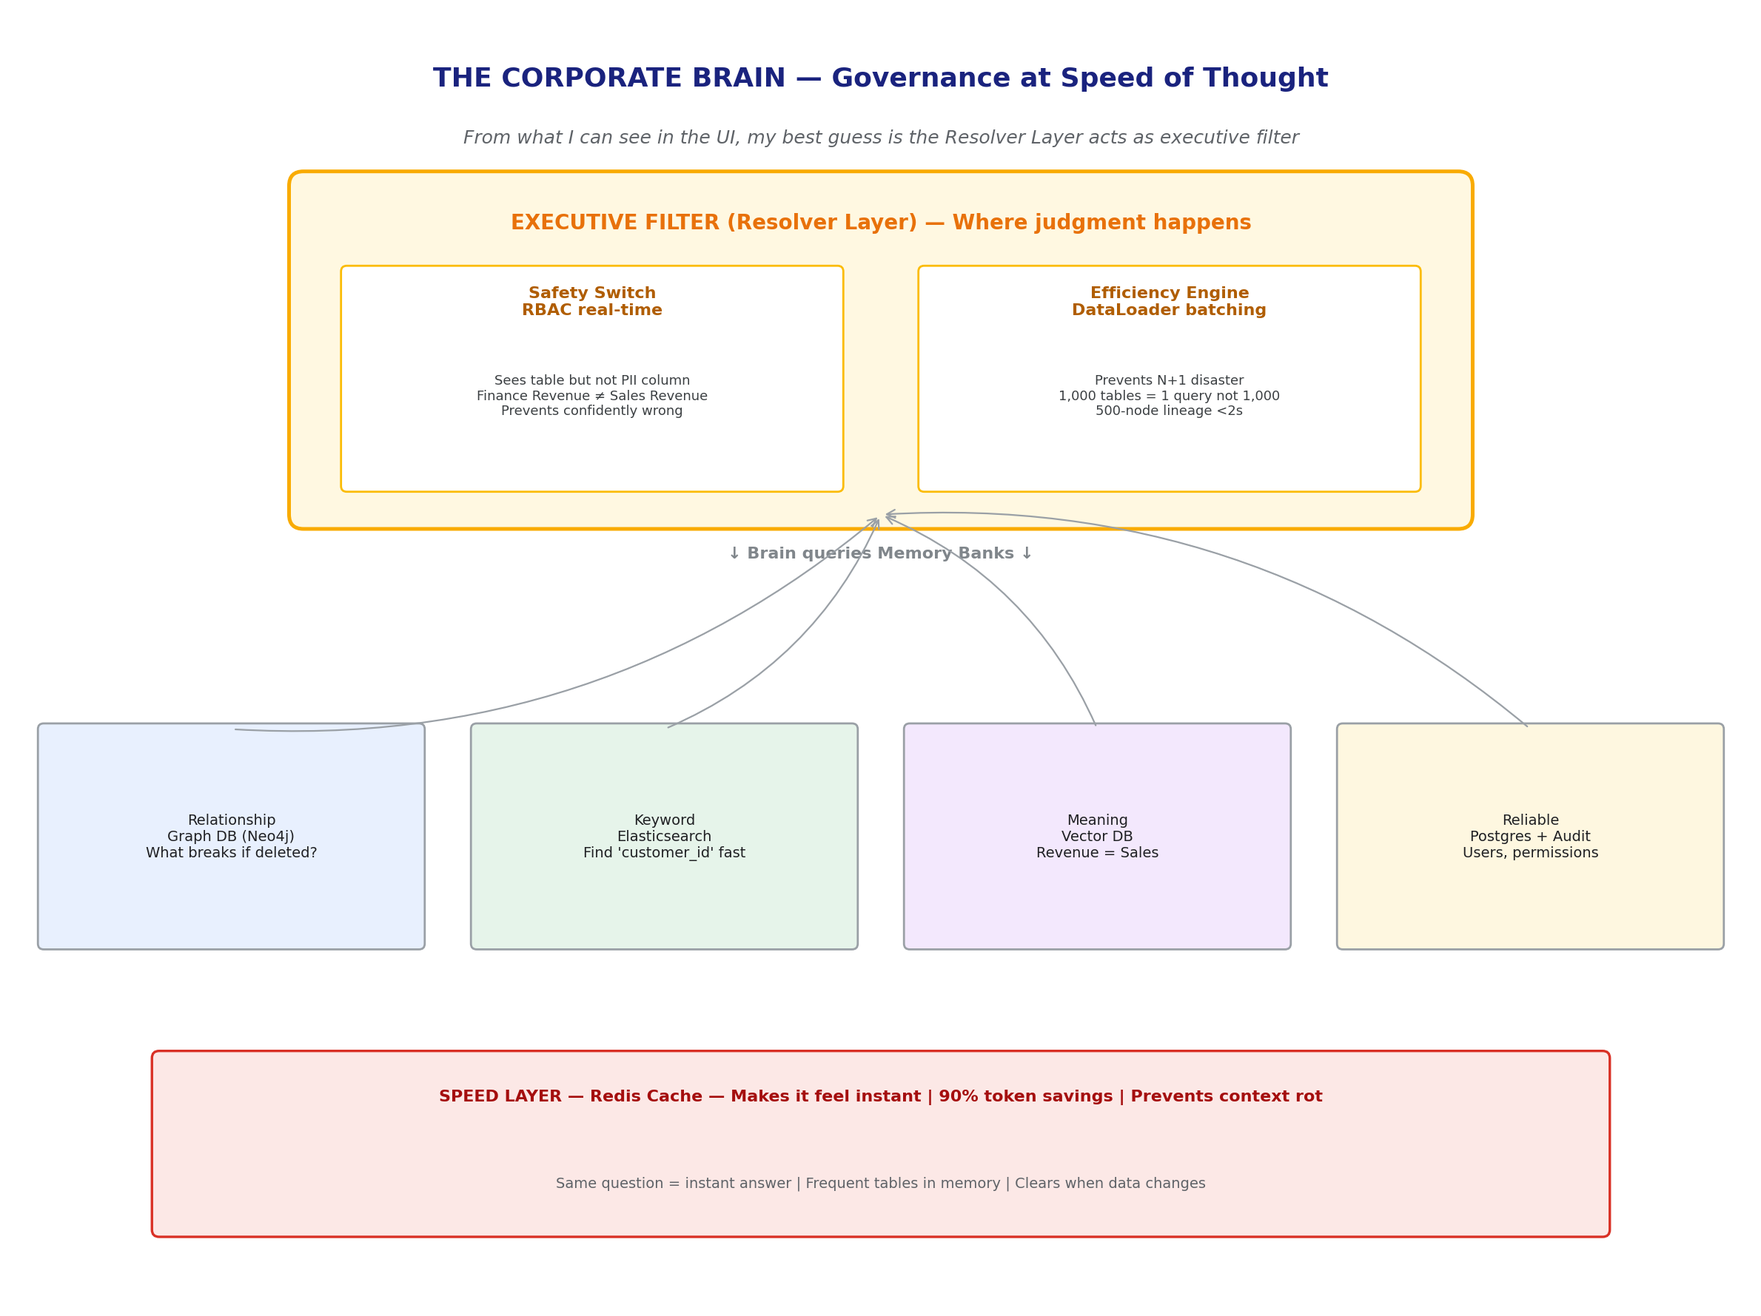
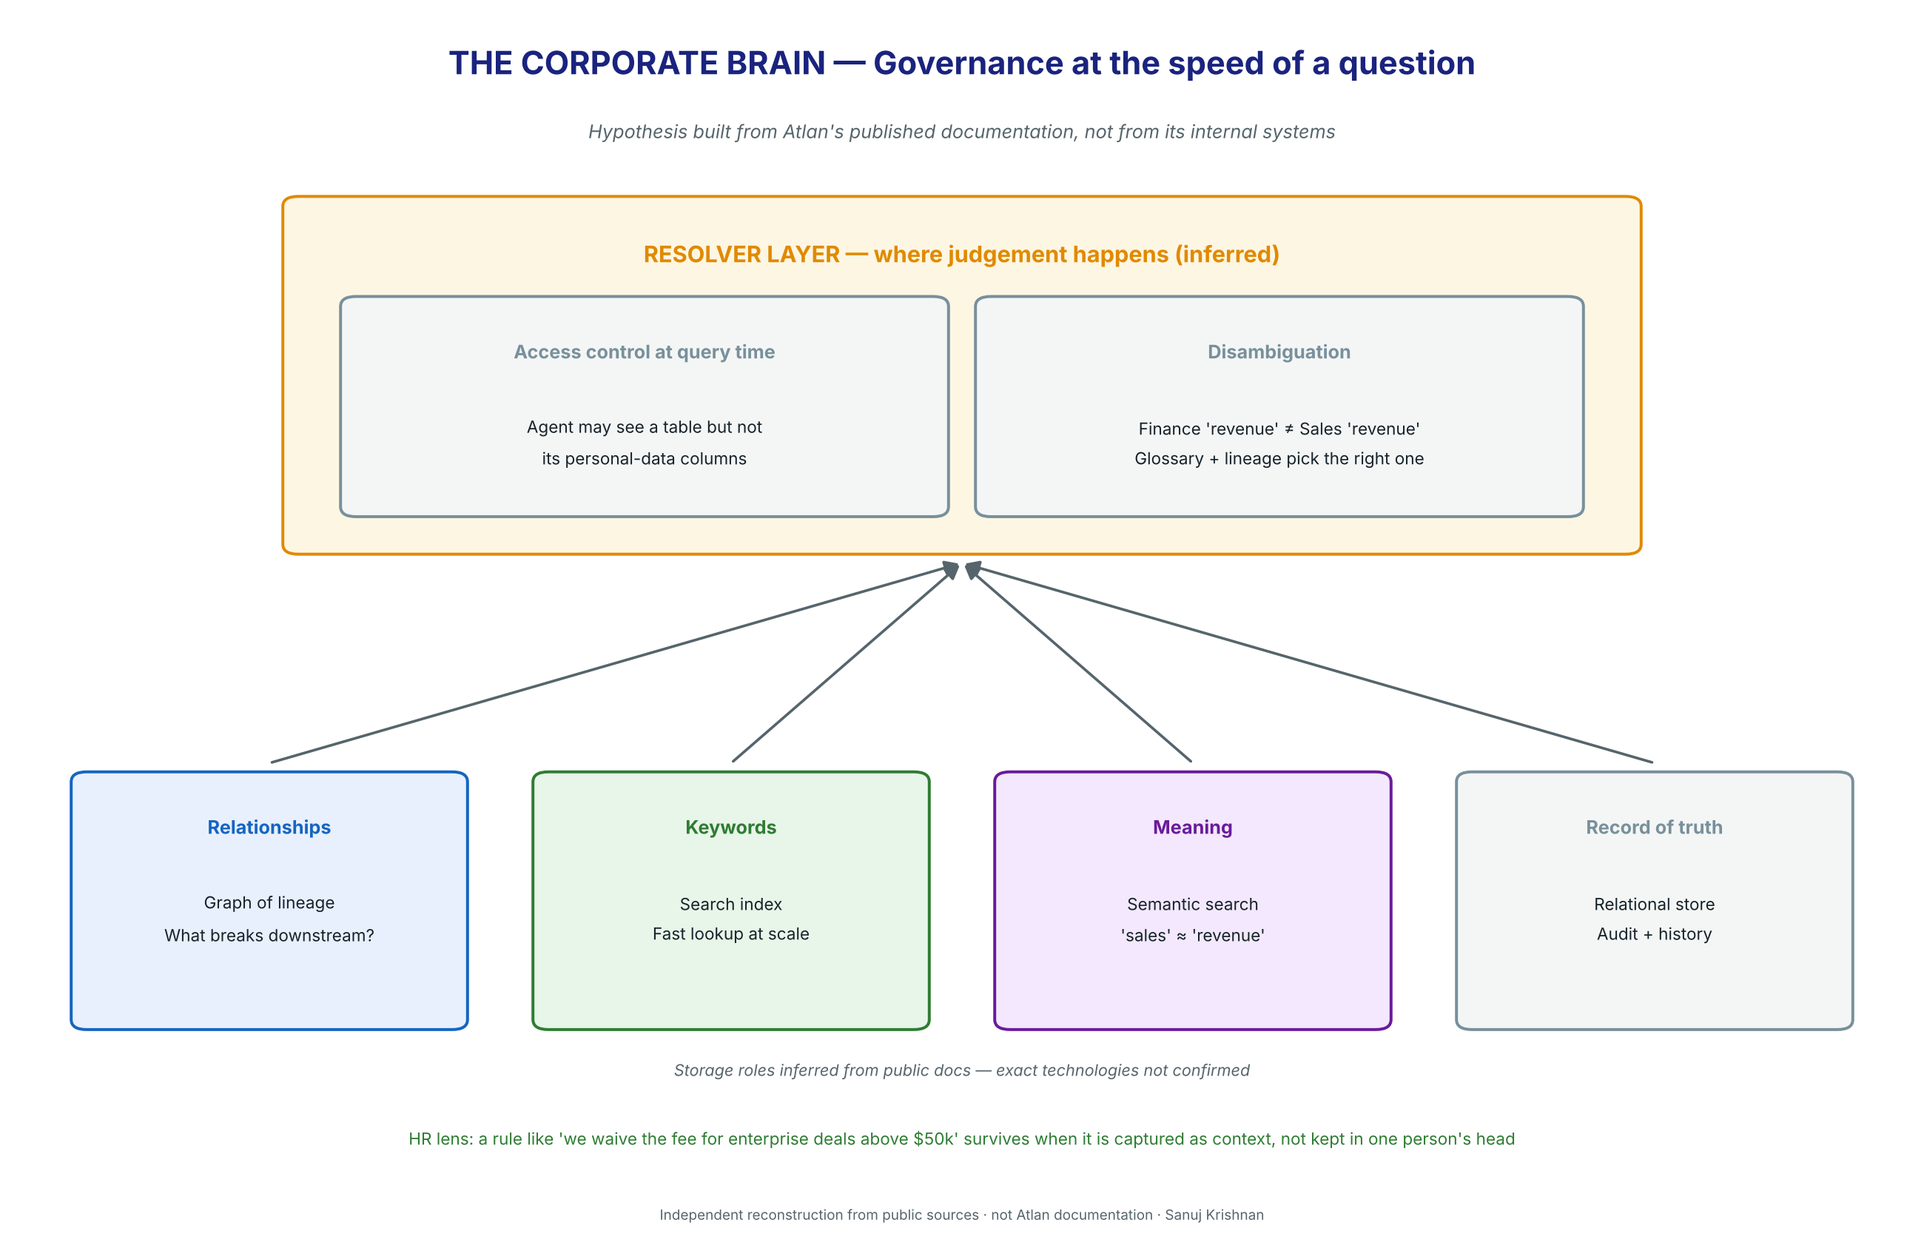
Rewrite for accuracy: drop unverifiable first-person claims, source figures, replace Ontora-style org ontology, regenerate diagrams
Claude-Session: https://claude.ai/code/session_01LmpHobkfRdwQtK572teASj

diff --git a/README.md b/README.md
@@ -1,131 +1,113 @@
 # Atlan: The Architecture of Contextual Intelligence
-### Bridging the Context Gap — A Technical Study
+### Why enterprise AI needs a context layer — a public-signal study
 
-> **Series:** This is part of an architecture-studies series with Ontora. Companion: [Ontora Architecture Study](https://github.com/sanoojcools/-ontora-architecture-study) — the repo name has a leading hyphen: `-ontora-architecture-study`.
+> **Series:** Architecture studies of AI-native companies, written from an org-design lens.
+> Part 1: [Ontora](https://github.com/sanoojcools/ontora-architecture-study) · Part 2: Atlan (this study)
 
-> I first saw Atlan's demo while researching metadata tools. The lineage graph looked like every other catalog. Then I noticed the Slack thread embedded in a column description. I spent a week researching public signals — UI screenshots, API docs, GitHub, Gartner MQ Nov 2025 (G00808349), and Prukalpa's "Becoming a Frontier Company" essay.
-
-> **This is not a teardown. It is a technical study of an ambitious architecture built under extreme constraints. Every builder will recognize the tradeoffs. And I may be wrong about any of it — corrections welcome.**
+> **What this is:** an independent reconstruction built only from public material — Atlan's website, product documentation, published case studies, its open-source repositories, Prukalpa Sankar's essay *"Becoming a Frontier Company,"* and Gartner's November 2025 Magic Quadrant for Metadata Management (G00808349). It is not Atlan documentation, not an affiliation, and not a claim that any inferred layer works exactly as described. Where I am guessing, I say so. Corrections are welcome.
 
 ---
 
-### The Setup: Why This Matters
+### The question that started this
 
-Most data catalog demos are feature checklists. Lineage graph, glossary search, Slack integration, founder says "active metadata" like that's a strategy.
+A data catalog used to be a library index: what tables exist, who owns them, where they came from. Useful, rarely exciting.
 
-Then I watched Atlan's product evolution. Not the sales pitch. The actual technical signals. And I saw something different: what appears to be a six-layer architecture built around a single thesis — **P = f(I, C)**, where Performance equals Intelligence times Context.
+What caught my attention in Atlan's material was something else. Their product and messaging have moved from *"find your data"* to *"give AI the context it needs to act correctly."* That is a different job. A catalog serves a curious analyst. A context layer serves an AI agent that will confidently answer a CFO's question whether or not it understands what "revenue" means in that company.
 
-From what I can see in the UI, my best guess is that Atlan is not a data catalog. They are building a Contextual Intelligence Engine.
+Atlan frames this as **P = f(I, C)**: an AI system's performance is a function of its intelligence *and* the context it is given. Models are getting smarter every quarter. Context is the part each company has to build for itself.
 
-I assumed it was just another graph database with a nice frontend. Here is where my original hypothesis died: I opened the network tab and saw a single GraphQL call fetching nested lineage, permissions, and quality signals in one roundtrip. That's not a catalog. That's an institutional brain.
+As someone who has spent 16 years in HR and organisation design, that framing landed. It is the same problem I have watched in every reorganisation: capable people make bad decisions when the unwritten rules live in someone else's head.
 
-### The Big Picture
+### The big picture
 
 ![Strategy Map](./assets/01-strategy-map.png)
 
-This map is my reconstruction: Technical foundation → Hard problems solved → Remaining challenges → Strategic outcomes → Category position. The 100+ connectors don't matter until they map to outcomes like High Trust AI and 38% Text-to-SQL lift.
+My reconstruction runs from technical foundation → hard problems → remaining challenges → business outcomes. The 100+ connectors matter only when they turn into outcomes such as trustworthy AI answers.
 
-I have no way of knowing how these numbers were calculated — Atlan mentions 38% lift and Workday's 5x improvement in public talks — but my guess is they come from grounding Text-to-SQL with lineage and quality signals. If my guess is right and they are LLM-estimated without system logs, that's fiction with decimal points. If they are system-derived from Snowflake query logs and dbt row counts, that's a real moat.
+Atlan has publicly cited figures like a 38% improvement in text-to-SQL accuracy and a 5x improvement at Workday after adding metadata context. I have not been able to verify how these were measured. If they come from controlled before-and-after tests against real query logs, they describe a genuine moat. If they are estimates, they are directional at best. That distinction is the single most important open question in this category.
 
-### 1. The Corporate Brain — Governance at Speed of Thought
+### 1. The corporate brain — governance at the speed of a question
 
 ![Corporate Brain](./assets/02-corporate-brain.png)
 
-From what I can see in the UI, the Resolver Layer is the executive filter. The raw data lives in memory banks, but judgment happens here.
+Atlan's documentation describes a platform that combines several kinds of storage and search. My reading of how those pieces likely fit together:
 
-**The Safety Switch:** From the permissions UX, my best guess is real-time RBAC checks. It ensures an AI agent can see a table but never a PII column. When Finance says "Revenue" and Sales says "Revenue" and they mean different things, the Brain knows the difference. This prevents the confidently wrong disaster I see in most AI pilots.
+- **Relationships (graph):** *what breaks downstream if I change this table?*
+- **Keywords (search index):** fast lookup across millions of assets
+- **Meaning (vector/semantic search):** knowing that "sales" and "revenue" may refer to the same thing
+- **Record of truth (relational store):** audit trails and change history
 
-**The Efficiency Engine:** I assumed loading 1,000 tables meant 1,000 queries. The network tab shows DataLoader batching — one batched query, not 1,000. That's why 500-node lineage feels <2s instead of 10s.
+On top of storage sits what I call a **resolver layer**: the part that decides what an AI agent is allowed to see and how ambiguous terms are interpreted. Two jobs matter most:
 
-**Memory Banks:**
-- Relationship (Graph DB): What breaks if I delete this?
-- Keyword (Elasticsearch): Fast keyword across millions
-- Meaning (Vector): Revenue = Sales
-- Reliable (Postgres): Audit logs, source of truth
+**Access control at query time.** An agent may be allowed to see a customer table but not the personal-data columns inside it. Atlan's published governance features (policies, personas, column-level controls) suggest this check happens before context reaches the model, not after.
 
-Speed layer (Redis) makes same question instant. From what I can tell, this plus Minimum Viable Context is how they get 90% token savings.
+**Disambiguation.** When Finance's "revenue" and Sales' "revenue" mean different things, the glossary and lineage tell the system which one the question needs. This is how you avoid the most dangerous AI failure: an answer that is fluent, specific, and wrong.
 
-**CHRO lens:** When an expert leaves, their judgment — "except when enterprise >$50k, waive fee" — stays in the graph. Institutional memory preserved.
+**Through an HR lens:** this is a knowledge-retention system. When an expert leaves, a rule like *"we waive the fee for enterprise deals above $50k"* survives if it was captured as context rather than kept in someone's memory.
 
-### 2. The Full Story — Why AI Hallucinates
+### 2. The full story — why AI answers go wrong
 
 ![Full Story](./assets/03-full-story.png)
 
-I have no way of knowing how Atlan validates AI answers, but my guess from the UI is this pipeline:
+Ask an AI "what was enterprise revenue last quarter?" and a correct answer needs far more than the table. It needs the metric's agreed definition, the table's lineage, recent data-quality failures, whether a pipeline changed yesterday, how heavily the asset is used, and the Slack thread where an exception was approved.
 
-They gather the hidden story before answering: Metric definition (Finance ≠ Sales), lineage (what breaks if deleted?), quality signals (3 failures, null user_id, trust 40%), recent deploy (v2.3 at 14:23 UTC by @john), usage DNA (47 users/day, $2.3M revenue), and the Slack thread where discount was actually approved — "Except for enterprise >$50k, we waive fee — @sarah in #finance"
+My hypothesis is that Atlan's AI features assemble this "hidden story" before the model answers, and deliver only the relevant slice rather than stuffing every available document into the prompt. Research on long-context models supports the instinct: more context is not automatically better, and models can lose track of what matters in very long prompts.
 
-If my guess is right and they are LLM-estimated without grounding, it's hallucination with citations. If they check "all facts in context?" and score confidence as High (system-derived) vs Low (estimated), that's how you prevent confidently wrong AI.
+The test that separates a real system from a demo: does the answer show *where each fact came from* and *how confident the system is*? Grounded facts and estimates should never look the same to an executive.
 
-From what I can see, they deliver Minimum Viable Context — not prompt stuffing 100k tokens which causes Context Rot where models get confused, but only golden tokens.
-
-### 3. The Human-AI Handshake — Solving Cold Start
+### 3. The human-AI handshake — solving cold start
 
 ![Handshake](./assets/04-handshake.png)
 
-Here is where my original hypothesis died again. I assumed cold start was a data problem. It's a human problem.
+Every context layer faces the same Day 1 problem: thousands of tables, no descriptions, no owners, no lineage. The AI has nothing to work with, so it produces poor answers, so nobody uses it, so no context gets added. Many pilots die in this loop.
 
-Day 1: 10,000 tables, zero descriptions, no lineage, no owners. Result: AI hallucinates, product feels useless, 95% of pilots die here. I have seen this pattern in every catalog.
+From Atlan's product material, the way out looks like a division of labour between AI and people:
 
-Day 90: Rich context, scores 80-100, Slack wisdom captured. Result: 38% Text-to-SQL lift, 5x accuracy.
+1. **AI writes the first draft.** Atlan offers AI-generated descriptions from table names, columns and SQL. Humans edit rather than start from blank.
+2. **Humans focus where usage is concentrated.** In most data estates, a small share of assets carries most of the queries. Curating those first gives the biggest return.
+3. **Starter content.** Pre-built glossaries for common domains reduce the blank-page problem.
+4. **Recognition.** Making contributions visible turns tribal knowledge into shared knowledge.
 
-The bridge is what I call the Human-AI Handshake:
+When this works, it becomes a flywheel: better context → better answers → more use → more context. When it fails, it is almost always a people and incentives problem, not a technology problem. That is the part HR leaders should own.
 
-1. **AI first pass:** From the auto-generated descriptions in the UI, my best guess is LLM reads table names + SQL → writes first draft. Saves 80%.
-2. **Golden 10%:** Data shows top 10% tables get 90% queries. Humans focus only there.
-3. **Jumpstart kit:** Pre-built glossaries for Finance, E-com.
-4. **Gamification:** Badges turn tribal knowledge into shared memory.
+### 4. From a fixed model to an extensible one
 
-More context → Better answers → More engagement → More behavioral context → Better AI. Self-healing flywheel.
+![Extensible metamodel](./assets/05-ontology.png)
 
-Traditional build takes 6-12 months. From customer stories, my guess is this handshake gets priority domains live in 60-90 days. That's P&L speed.
+Any metadata platform starts with a fixed set of asset types: databases, schemas, tables, columns, dashboards, pipelines. That works until a company needs to describe something the vendor did not anticipate: ML models, feature stores, data products, AI agents, business processes.
 
-### 4. From Rigid Chart to Matrix Reality
+Atlan's documentation describes custom metadata and the ability to extend the model with new asset types. The architectural challenge behind that is real:
 
-![Ontology](./assets/05-ontology.png)
+- **New types without code:** a team defines "ML Model" with its own fields, lineage and permissions.
+- **Many-to-many ownership:** one data product serves five business units; one dataset has owners in two functions.
+- **Backward compatibility:** extending the model must not break existing lineage, search or policies.
 
-Fixed ontology (v1): Company → Department → Product → Employee → Customer. One employee = one department. Clean.
+**The organisational parallel** is why this interests me. Org charts have the same flaw. A fixed hierarchy of company → department → team → employee cannot represent a matrix organisation, a platform team serving five products, or a specialist split across three functions. Any system that models how work actually happens, whether data or people, eventually needs a flexible, many-to-many model. The companies that design for that from the start will avoid painful migrations later.
 
-I assumed this was enough. Then I thought about my own teams — contractor Alex who works for Finance 50% + Product 30% + Sales 20%. Where do you put Alex? Fixed model says error. Alex's tribal knowledge stays invisible.
+### What this means for each leader
 
-Modern reality: Matrix orgs, platform teams that own capability across 5 products, contractors not in HR, non-profits with donors not customers, custom assets like ML Models and Feature Stores.
+- **CEO:** most AI pilots fail to move the P&L. MIT's 2025 *GenAI Divide* report found the large majority of enterprise generative-AI pilots showed no measurable financial return. Missing context is one of the most fixable causes.
+- **CIO:** if every function builds its own AI with its own definitions, you get context islands. A shared context layer, increasingly exposed through open standards such as the Model Context Protocol (MCP), gives every agent the same version of the truth.
+- **CTO:** bigger context windows are not a strategy. Delivering the smallest sufficient context is cheaper, faster and more reliable.
+- **CHRO:** tacit knowledge walks out the door with every resignation. A context layer turns *"except when…"* rules into an asset the organisation keeps.
+- **Investor:** models are becoming commodities. Connectors and storage can be copied. Years of curated, customer-specific context are much harder to replicate.
 
-Flexible ontology (v2) — from what I can see in recent UI, they now allow:
-- Dynamic entity types: Need "ML Model"? Create it.
-- Many-to-many: Alex → 3 depts with percentages
-- Backward compatible: Old data still works
-- Ontology merging: Learn patterns across 10k deployments — "what good looks like"
+### Open questions I would ask Atlan
 
-Success: Alex leaves, judgment "For enterprise >$50k, waive fee" stays searchable. CHRO win = Institutional Memory. CIO win = No more context islands.
+1. **How is accuracy lift measured?** Controlled tests against real query logs, or estimates?
+2. **How are conflicting sources handled?** When the glossary says one thing and a Slack thread says another, which wins, and is the conflict shown to the user?
+3. **How is context kept fresh?** A definition that was right last year can quietly become wrong. What flags stale context before an agent relies on it?
 
-### For the C-Suite — Why You Should Care
+### Closing
 
-**CEO — P&L Rescue:** 95% of AI pilots fail because context-poor. From public case studies, Workday saw 5x improvement after embedding metadata context. That's demo vs product.
+Atlan appears to be building something closer to an institutional memory than a catalog: a governed, multi-store context layer designed for AI agents rather than human browsers. The hard work ahead is less about features and more about trust: proving measured accuracy, handling conflicting truths, and keeping context fresh without exhausting the people who maintain it.
 
-**CIO — No Context Islands:** Every team building isolated AI silo means Finance AI and Sales AI speak different languages. Federated context layer via MCP standard ensures one truth.
-
-**CTO — No Context Rot:** Bigger windows ≠ better. Real feat is Minimum Viable Context: 90% token savings, <2s latency, 38% lift. No prompt stuffing.
-
-**CHRO — Institutional Memory:** Tacit knowledge walks out door when experts leave. Context layer captures decision traces. The "except when..." rules become asset.
-
-**VC — Moat:** Models are commodity. Proprietary context with 38% lift is defensible. Plumbing (connectors, graph DB) can be cloned in 12-18 months. Process ontologies from 10k deployments cannot.
-
-### Closing — The Respectful Take
-
-Atlan has built a real architecture under extreme constraints: multi-protocol mesh with 100+ connectors, multi-model core that justifies complexity, event-driven engine, RAG with validation, GraphQL that doesn't N+1 itself, enterprise-grade isolation.
-
-That's not a catalog with AI bolted on. That's a genuine technical achievement.
-
-The next 24 months aren't about features. They're about surviving five tensions: cold start, ontology flexibility, quantification gap, feedback hygiene, moat depth. The companies that solve ground-truth validation, flexible org modeling, and feedback hygiene without echo chamber will own the category.
-
-If the founders read this: I would love to be wrong about the quantification gap. Show me a validated metric that survived six-month reality check, and I'll write the follow-up.
+Those are as much organisational challenges as technical ones, which is exactly why I think HR and data leaders should be reading the same architecture diagrams.
 
 ---
 
-**Sources:** atlan.com, "Becoming a Frontier Company" by Prukalpa Sankar, Gartner MQ Metadata Management Nov 2025 ID G00808349, atlanhq GitHub, OpenLineage spec, public UI screenshots.
+**Sources:** [atlan.com](https://atlan.com) and Atlan product documentation · Prukalpa Sankar, *"Becoming a Frontier Company"* · Gartner, Magic Quadrant for Metadata Management Solutions, Nov 2025 (G00808349) · [atlanhq on GitHub](https://github.com/atlanhq) · [OpenLineage specification](https://openlineage.io) · MIT NANDA, *The GenAI Divide: State of AI in Business 2025* · [Model Context Protocol](https://modelcontextprotocol.io)
 
-**Method:** Public-signal OSINT only. No NDA, no insider access. Architecture reconstructed from UI evidence + docs + first principles. I may be wrong — corrections welcome.
+**Method:** Public sources only. No NDA, no insider access, no inspection of Atlan's private systems. Architecture is reconstructed from published documentation, product material and first principles. Figures attributed to Atlan are as publicly cited and have not been independently verified.
 
-**Author:** Sanuj Krishnan | Series: [Ontora Architecture Study](https://github.com/sanoojcools/-ontora-architecture-study) (`-ontora-architecture-study`) → Atlan Study
-
-**Diagrams:** 5 high-res, optimized for GitHub light/dark mode, no text overflow.
+**Author:** [Sanuj Krishnan](https://github.com/sanoojcools) · HR and organisation-design leader writing about AI-native companies · Series: [Ontora](https://github.com/sanoojcools/ontora-architecture-study) → Atlan
